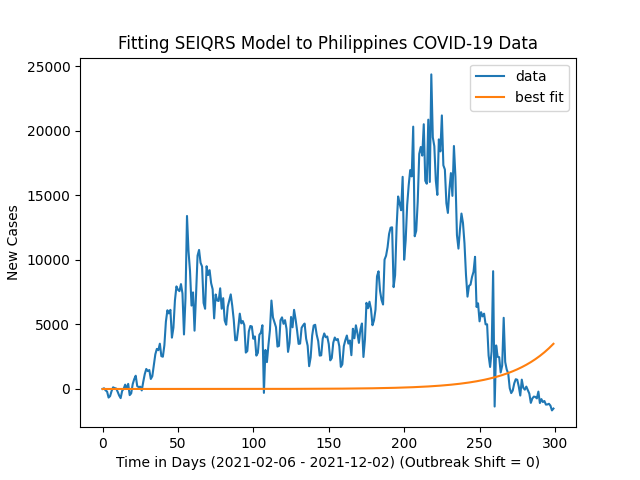
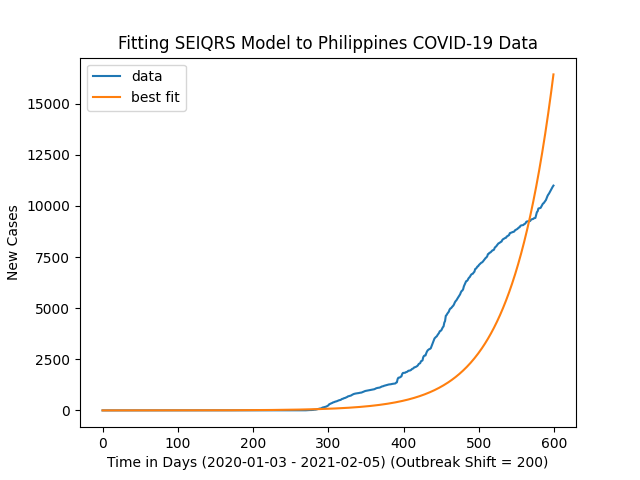
Added D Compartment

diff --git a/seiqrs.py b/seiqrs.py
@@ -11,15 +11,15 @@ test_case = 'High Population'
 print(f'Test Case: {test_case}')
 
 # Total population, N.
-N = 100000
+N = 1000
 # Initial number of infected and recovered individuals, I0 and R0.
-E0, I0, Q0, R0 = 0, 1, 0, 0
+E0, I0, Q0, R0, D0 = 0, 1, 0, 0, 0
 # Everyone else, S0, is susceptible to infection initially.
 S0 = N - E0 - I0 - Q0 - R0 
 # Contact rate(beta), incubation period(phi, in 1/days), quarantine rate(zeta, in 1/days), mean recovery rate in non-quarantine(gamma, in 1/days), mean recovery rate in quarantine(kappa, in 1/days), and immunity wearoff rate(mu, in 1/days).
-beta, phi, zeta, gamma, kappa, mu = 0.9, 1./10, (1./10), 1./10, 1./10, (1./60)
+beta, phi, zeta, gamma, kappa, mu, alpha, epsilon = 0.9, 1./10, (1./10), 1./10, 1./10, (1./60), 0.1, 0.1
 # A grid of time points (in days)
-t = np.linspace(0, 160*10, 160*10)
+t = np.linspace(0, 600, 600)
 
 print(f'Beta: {beta}, Gamma: {gamma}')
 r0 = r_plot(S0, N, beta, gamma, kappa)
@@ -28,15 +28,15 @@ if (r0) > 1:
     print('Epidemic!')
 
 # Initial conditions vector
-y0 = S0, E0, I0, Q0, R0
+y0 = S0, E0, I0, Q0, R0, D0
 # Integrate the SIR equations over the time grid, t.
-ret = odeint(deriv, y0, t, args=(N, beta, phi, zeta, gamma, kappa, mu))
-S, E, I, Q, R = ret.T
+ret = odeint(deriv, y0, t, args=(N, beta, phi, zeta, gamma, kappa, mu, alpha, epsilon))
+S, E, I, Q, R, D = ret.T
 
 Se = (N*(gamma+zeta))/beta
 Ie = (phi*kappa*mu*N*(beta-gamma-zeta))/(beta*((kappa*(gamma+zeta)*(mu+phi))+(phi*mu*(kappa+zeta))))
 Ee = (beta*Se*Ie)/(N*phi)
-Qe = (zeta*Ie)/(kappa)
+Qe = (zeta*Ie) / kappa
 Re = (Ie*(gamma+zeta))/mu
 
 print(f'Se: {Se}, Ee: {Ee}, Ie: {Ie}, Qe: {Qe}, Re: {Re}')
@@ -57,20 +57,20 @@ if save:
 plt.show(block=False)
 
 # Plot New Cases
-plt.figure()
-plt.plot(t, phi*E, label = "New Cases")
-plt.plot(t, (phi*E).cumsum(), label = "New Cases Cumulative")
-plt.title(f'New Cases over Time ({test_case})')
-plt.xlabel('Time (Days)')
-plt.ylabel('New Cases')
-plt.autoscale()
-if save:
-    plt.savefig(f'pics\{test_case} Case_New_Cases.png')
-plt.show(block=False)
+# plt.figure()
+# plt.plot(t, phi*E, label = "New Cases")
+# plt.plot(t, (phi*E).cumsum(), label = "New Cases Cumulative")
+# plt.title(f'New Cases over Time ({test_case})')
+# plt.xlabel('Time (Days)')
+# plt.ylabel('New Cases')
+# plt.autoscale()
+# if save:
+#     plt.savefig(f'pics\{test_case} Case_New_Cases.png')
+# plt.show(block=False)
 
 #Plot Stacked Area Graph
 plt.figure()
-plt.stackplot(t, E, I, Q, S, R, labels=['Exposed', 'Infected', 'Quarantined','Susceptible','Recovered'])
+plt.stackplot(t, E, I, Q, S, R, D, labels=['Exposed', 'Infected', 'Quarantined','Susceptible','Recovered'])
 plt.legend(loc='upper right')
 plt.title(f'Stacked SEIQRS States over Time ({test_case} Case)')
 plt.xlabel('Time (Days)')
@@ -87,11 +87,12 @@ plt.plot(t, E, label = "Exposed")
 plt.plot(t, I, label = "Infected")
 plt.plot(t, Q, label = "Quarantined")
 plt.plot(t, R, label = "Recovered")
-plt.axhline(y = Se, linestyle = '--')
-plt.axhline(y = Ee, linestyle = '--')
-plt.axhline(y = Ie, linestyle = '--')
-plt.axhline(y = Qe, linestyle = '--')
-plt.axhline(y = Re, linestyle = '--')
+plt.plot(t, D, label = "Dead")
+# plt.axhline(y = Se, linestyle = '--')
+# plt.axhline(y = Ee, linestyle = '--')
+# plt.axhline(y = Ie, linestyle = '--')
+# plt.axhline(y = Qe, linestyle = '--')
+# plt.axhline(y = Re, linestyle = '--')
 plt.legend(loc='upper right')
 plt.title(f'SEIQRS State over Time ({test_case} Case)')
 plt.xlabel('Time (Days)')

diff --git a/fitting/data_fit.py b/fitting/data_fit.py
@@ -27,7 +27,7 @@ agegroup_lookup = dict(zip(agegroups['Location'], agegroups[['0_9', '10_19', '20
 # parameters
 country = "Philippines"
 country_data = covid_data[covid_data["Location"] == "Philippines"]
-data = country_data["New_cases"].values
+data = country_data["Cumulative_deaths"].values
 times = country_data["Date_reported"].values
 plt.title(f'New Cases COVID-19 Data ({country})')
 plt.xlabel(f"Time in Days ({datetime.datetime.utcfromtimestamp(times[0].tolist()/1e9).date()} - {datetime.datetime.utcfromtimestamp(times[-1].tolist()/1e9).date()})")
@@ -39,8 +39,8 @@ plt.show(block=False)
 # data = data[:len(data)//3]
 # start at nth day
 saved_data = data
-data = data[400:700]
-times = times[400:700]
+data = data[:400]
+times = times[:400]
 
 # Moving Average
 # def moving_average(a, n=3) :
@@ -51,7 +51,7 @@ times = times[400:700]
 print(len(data))
 data -= data[0] # start cumulative sum at 0
 agegroups = agegroup_lookup["Philippines"]
-outbreak_shift = 0  # shift the outbreak by this many days (negative values are allowed)
+outbreak_shift = 200  # shift the outbreak by this many days (negative values are allowed)
 params_init_min_max = {"beta": (0.9, 0.1, 2), "zeta": (1./10, 1./50, 1),} #"mu": (1./90, 1./300, 1./5)}  # form: {parameter: (initial guess, minimum value, max value)}
      
 
@@ -68,16 +68,18 @@ phi = 1/9
 gamma = 1/5
 kappa = 1/5
 mu = 1/90
+alpha = 0.015
+epsilon = 0.015
 
 # Must Fit Beta, Zeta, Mu
 def fitter(x, beta, zeta):
-    ret = Model(days, agegroups, beta, phi, zeta, gamma, kappa, mu)
-    exposed = ret[3]
+    ret = Model(days, agegroups, beta, phi, zeta, gamma, kappa, mu, alpha, epsilon)
+    return ret[7]
     # print(deaths_predicted)
     # print(x)
 
     # print()
-    return phi*exposed # Inflow of Infections aka New Cases
+    # return phi*exposed # Inflow of Infections aka New Cases
 
 
 # Fit the model

diff --git a/fitting/fit_model.py b/fitting/fit_model.py
@@ -7,15 +7,15 @@ sys.path.insert(0, os.path.join(os.path.dirname(__file__), '..'))
 from model import deriv
 from r_plot import r_plot
 
-def Model(days, agegroups, beta, phi, zeta, gamma, kappa, mu):
+def Model(days, agegroups, beta, phi, zeta, gamma, kappa, mu, alpha, epsilon):
     # agegroups is list with number of people per age group -> sum to get population
     N = sum(agegroups)  
 
-    y0 = N-1.0, 1.0, 0.0, 0.0, 0.0  # one exposed, everyone else susceptible
+    y0 = N-1.0, 0, 1, 0, 0, 0  # one exposed, everyone else susceptible
     t = np.linspace(0, days, days)
-    ret = odeint(deriv, y0, t, args=(N, beta, phi, zeta, gamma, kappa, mu))
-    S, E, I, Q, R = ret.T
+    ret = odeint(deriv, y0, t, args=(N, beta, phi, zeta, gamma, kappa, mu, alpha, epsilon))
+    S, E, I, Q, R, D = ret.T
 
     R_0_over_time = r_plot(S, N, beta, gamma, zeta)  # get R0 over time for plotting
 
-    return t, N, S, E, I, Q, R, R_0_over_time
+    return t, N, S, E, I, Q, R, D, R_0_over_time

diff --git a/model.py b/model.py
@@ -1,9 +1,10 @@
 # The SEIQRS model differential equations.
-def deriv(y, t, N, beta, phi, zeta, gamma, kappa, mu):
-    S, E, I, Q, R = y
+def deriv(y, t, N, beta, phi, zeta, gamma, kappa, mu, alpha, epsilon):
+    S, E, I, Q, R, D = y
     dSdt = ((-beta * S * I)/N) + (mu * R)
     dEdt = ((beta * S * I)/N) - (phi * E)
-    dIdt = (phi * E) - (gamma * I) - (zeta * I)
-    dQdt = (zeta * I) - (kappa * Q)
+    dIdt = (phi * E) - (gamma * I) - (zeta * I) - (alpha * I)
+    dQdt = (zeta * I) - (kappa * Q) - (epsilon * Q)
     dRdt = (gamma * I) + (kappa * Q) - (mu * R)
-    return dSdt, dEdt, dIdt, dQdt, dRdt
+    dDdt = (alpha * I) + (epsilon * Q)
+    return dSdt, dEdt, dIdt, dQdt, dRdt, dDdt
